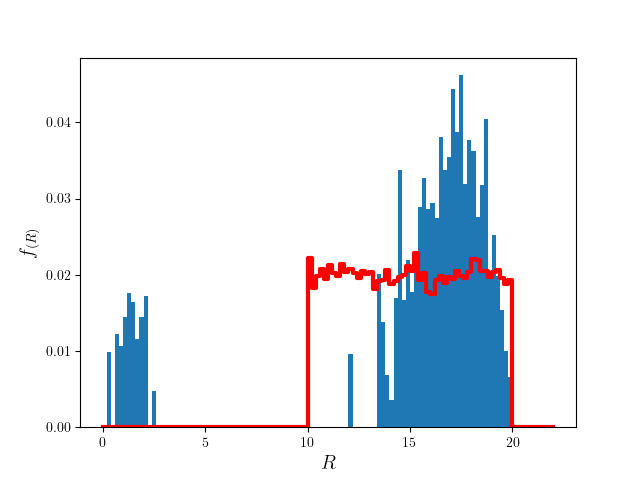
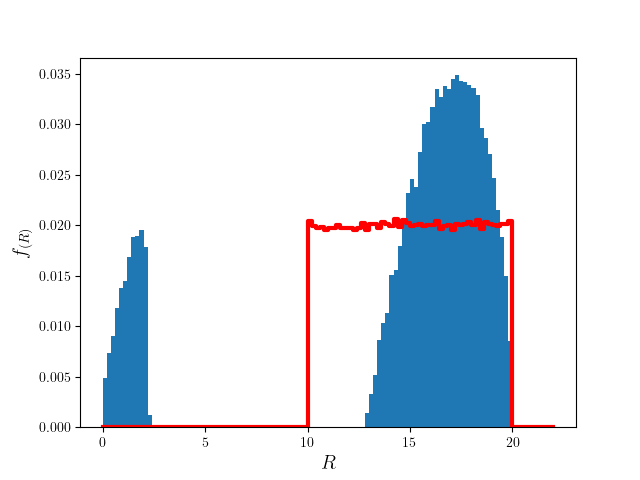
uncertainties and simple sphere volumes

diff --git a/Analysis.py b/Analysis.py
@@ -1,15 +1,17 @@
 import numpy as np
 import spheres as sph
 import distributions as dis
+import random as rng
 from matplotlib import pyplot as plt
 import matplotlib
+from scipy import stats as st
 plt.rcParams.update({
     "text.usetex": True,
     "font.family": "serif",
     "font.sans-serif": ["Computer Modern Roman"]})
 
 
-
+###############################################################################
 def calculate_fs(delta_R,n_max,phis):
 
     def A_coefficient(m,n,delta_R):
@@ -28,7 +30,7 @@ def calculate_fs(delta_R,n_max,phis):
         if fs[n_max-i-1]<0:
             fs[n_max-i-1]=0
     return(fs)
-
+###############################################################################
 def calculate_ks(dis_1,dis_2):
     def calculate_comulative(dis):
         com = np.zeros(len(dis))
@@ -45,29 +47,32 @@ def calculate_ks(dis_1,dis_2):
     return(np.amax(dif))
 
 ##########################################
+def ks_full_test(set_1,set_2):
+    max_values=np.amax(np.array([np.amax(np.array(set_1)),np.amax(np.array(set_2))]))
+    delta = max_values/1000
+    all_values = list(set_1)
+    all_values.extend(list(set_2))
+    def make_comulative(set, delta):
+        com = np.zeros(1001)
+        for i in set:
+            com[int(np.floor(i/delta))]+=1
+        return(com)
+    ks_value = calculate_ks(make_comulative(set_1, delta),make_comulative(set_2, delta))
 
-#def alt_calculate_fs(delta_R,n_max,phis):
-#
-#    def k_matrix_coeff(m,n):
-#        if n==m:
-#            return(pow((m-0.75),0.5))
-#        elif n>m:
-#            return((pow(pow(n-1/2,2)-pow(m-1,2),0.5)-pow(pow(n-0.5,2)-pow(m,2),0.5)))
-#        else:
-#           return(0)
-#    k = np.zeros((n_max,n_max))
-#    for n in range(n_max):
-#        for m in range(n_max):
-#            k[m][n]=k_matrix_coeff(m+1,n+1)
-#    k_inv = np.linalg.inv(k)
-#
-#
-#    fs = np.zeros(n_max)
-#    for i in range(n_max):
-#        for j in range(n_max):
-#            fs[n_max-1-i]+=(1/delta_R)*k_inv[n_max-i-1][n_max-1-j]*phis[n_max-1-j]
-#    return(fs)
+    ks_others = []
+    for i in range(500):
+        print(' '+str(i)+ '/' + str(500), end="\r", flush=True)
+        rng.shuffle(all_values)
+        first_set = all_values[:(int(len(all_values)/2))]
+        second_set = all_values[(int(len(all_values)/2)):]
+        ks_others.append(calculate_ks(make_comulative(first_set, delta),make_comulative(second_set, delta)))
+    ks_others_array = np.array(ks_others)
+    mean = np.mean(ks_others_array)
+    sd = np.std(ks_others_array)
+    return((ks_value-mean)/sd)
 
+
+###################################################################################################
 
 def alt_calculate_fs(delta_R,n_max,phis):
     def k_matrix_coeff(i,j):
@@ -92,16 +97,41 @@ def alt_calculate_fs(delta_R,n_max,phis):
         if fs[n_max-1-i]<0:
             fs[n_max-1-i]=0
     return(fs)
+##############################################################################
+def compare_volums(number_of_spheres, distribution, max_x_distance, max_distance, *dist_parameters):
+    sections  = [0,0]
+    radii_cut = [0,0]
+    radii_all = [0,0]
+    sections[1], radii_cut[1], radii_all[1] = sph.generate_simple_volume(number_of_spheres, distribution, max_x_distance, *dist_parameters)
+    print()
+    sections[0], radii_cut[0], radii_all[0] = sph.generate_volume(number_of_spheres, distribution, max_x_distance, max_distance, *dist_parameters)
+    print()
+    plt.subplot(1,2,1)
+    plt.hist(sections[0])
+    plt.ylabel('$\phi_{(R)}$',fontsize='x-large')
+    plt.xlabel('$R$',fontsize='x-large')
+    plt.subplot(1,2,2)
+    plt.xlabel('$R$',fontsize='x-large')
+    plt.hist(sections[1])
+    plt.show()
+
+
+    return(ks_full_test(sections[0],sections[1]))
 
 
 ########################################
-#1000, dis.from_range,80, 3000, 10,20
-#print(calculate_fs(1,4,[0,10,8,2]))
-def analyse_spheres(number_of_spheres, distribution, max_x_distance, max_distance, number_of_bins, delta_R=1, *dist_parameters):
-    sections, radii_cut, radii_all = sph.generate_volume(number_of_spheres, distribution, max_x_distance, max_distance, *dist_parameters)
+
+def analyse_spheres(number_of_spheres, distribution, max_distance, number_of_bins, add_Error = False, delta_R=1, *dist_parameters):
+    sections, radii_cut, radii_all = sph.generate_simple_volume(number_of_spheres, distribution, max_distance, *dist_parameters)
     dis_radii_cut = np.zeros(number_of_bins)
     dis_radii_all = np.zeros(number_of_bins)
     phis = np.zeros(number_of_bins)
+    print(sections[10])
+    if add_Error:
+        print('I AM HERE')
+        for i in range(len(sections)):
+            sections[i] += np.random.normal(0,sections[i]/10)
+    print(sections[10])
     for i in sections:
         phis[int(np.floor(i/delta_R))]+=1
     for i in radii_cut:
@@ -125,7 +155,9 @@ def analyse_spheres(number_of_spheres, distribution, max_x_distance, max_distanc
     ks = calculate_ks(fs,dis_radii_all)
 
     ks_expected = []
+    print()
     for i in range(100):
+        print(' '+str(i)+ '/' + str(100), end="\r", flush=True)
         data = [distribution(dist_parameters,return_ks=True,number_of_samples=np.floor(np.sum(fs))),distribution(dist_parameters,return_ks=True,number_of_samples=len(radii_all))]
         distributions = [np.zeros(number_of_bins),np.zeros(number_of_bins)]
         for j in range(len(data[0])):
@@ -197,7 +229,7 @@ def analyse_spheres(number_of_spheres, distribution, max_x_distance, max_distanc
     plt.ylabel('$f_{(R)}$',fontsize='x-large')
     plt.xlabel('$R$',fontsize='x-large')
     plt.show()
-analyse_spheres(3000, dis.from_range, 80, 2400000, 22, 1, 10,20)
-#analyse_spheres(1000, dis.constant, 40, 40000, 450, 0.03, 9.5)
-#analyse_spheres(3000, dis.normal_distribution, 50, 800000, 30, 1, 12,3)
-#analyse_spheres(500, dis.from_range, 8, 12000, 22, .1, 1,2)
+#analyse_spheres(3000, dis.from_range, 21, 30, True, 1, 10,20)
+#analyse_spheres(1000, dis.constant, 21, 20, True, 1, 9.5)
+analyse_spheres(5000, dis.normal_distribution, 40, 30, True, 1, 12,3)
+#analyse_spheres(500, dis.from_range, 8, 22, False, .1, 1,2)

diff --git a/spheres.py b/spheres.py
@@ -24,6 +24,7 @@ def generate_sphere(spheres,radius,max_distance, max_x_distance,dimensions=3,exc
         return(coordinates)
     success = 0
     n = 0
+    fails = 0
     while (0==success):
         n+=1
         if n > exception_limit:
@@ -36,14 +37,52 @@ def generate_sphere(spheres,radius,max_distance, max_x_distance,dimensions=3,exc
             distance = each.get_distance(new_coordinates)
             if distance < (each.radius+radius):
                 success=0
-    return(sphere(radius, new_coordinates))
+                fails +=1
+    return(sphere(radius, new_coordinates), fails)
 
 def generate_volume(number_of_spheres, distribution, max_x_distance, max_distance, *dist_parameters):
     spheres = []
     sections = []
     cut_spheres_radii = []
+    total_fails = 0
     while len(sections)<number_of_spheres:
-        spheres.append(generate_sphere(spheres,distribution(dist_parameters),max_distance, max_x_distance))
+        new_sphere, fails = generate_sphere(spheres,distribution(dist_parameters),max_distance, max_x_distance)
+        spheres.append(new_sphere)
+        total_fails+=fails
+        if spheres[len(spheres)-1].plane_cut_radius != False:
+            sections.append(spheres[len(spheres)-1].plane_cut_radius)
+            print(' '+str(len(sections))+ '/' + str(number_of_spheres), end="\r", flush=True)
+            cut_spheres_radii.append(spheres[len(spheres)-1].radius)
+
+    spheres_radii = []
+    for i in spheres:
+        spheres_radii.append(i.radius)
+    print('total relocations:'+str(total_fails))
+    return(sections,cut_spheres_radii, spheres_radii)
+
+
+class simple_sphere:
+    def __init__(self,radius, distance):
+        self.distance = distance
+        self.radius = radius
+        if pow(radius,2)>pow(distance,2):
+            self.plane_cut_radius = pow(pow(radius,2)-pow(distance,2),0.5) # radius of section cut by y-z plane
+        else:
+            self.plane_cut_radius = False
+
+def generate_simple_sphere(radius,max_distance):
+    def generate_distance():
+        distance = max_distance*(rng.random()*2-1)
+        return(distance)
+    return(simple_sphere(radius, generate_distance()))
+
+
+def generate_simple_volume(number_of_spheres, distribution, max_distance, *dist_parameters):
+    spheres = []
+    sections = []
+    cut_spheres_radii = []
+    while len(sections)<number_of_spheres:
+        spheres.append(generate_simple_sphere(distribution(dist_parameters),max_distance))
         if spheres[len(spheres)-1].plane_cut_radius != False:
             sections.append(spheres[len(spheres)-1].plane_cut_radius)
             print(' '+str(len(sections))+ '/' + str(number_of_spheres), end="\r", flush=True)

diff --git a/distributions.py b/distributions.py
@@ -4,7 +4,7 @@ import numpy as np
 def constant(x, return_ks= False, number_of_samples = 0):
     if return_ks:
         result = []
-        for i in range(number_of_samples):
+        for i in range(int(number_of_samples)):
             result.append(x[0])
         return(result)
     return(x[0])
@@ -12,7 +12,6 @@ def constant(x, return_ks= False, number_of_samples = 0):
 def from_range(limits, return_ks= False, number_of_samples = 0):
     if return_ks:
         result = []
-        print(number_of_samples)
         for i in range(int(number_of_samples)):
             result.append(rng.random()*(limits[1]-limits[0])+limits[0])
         return(result)
